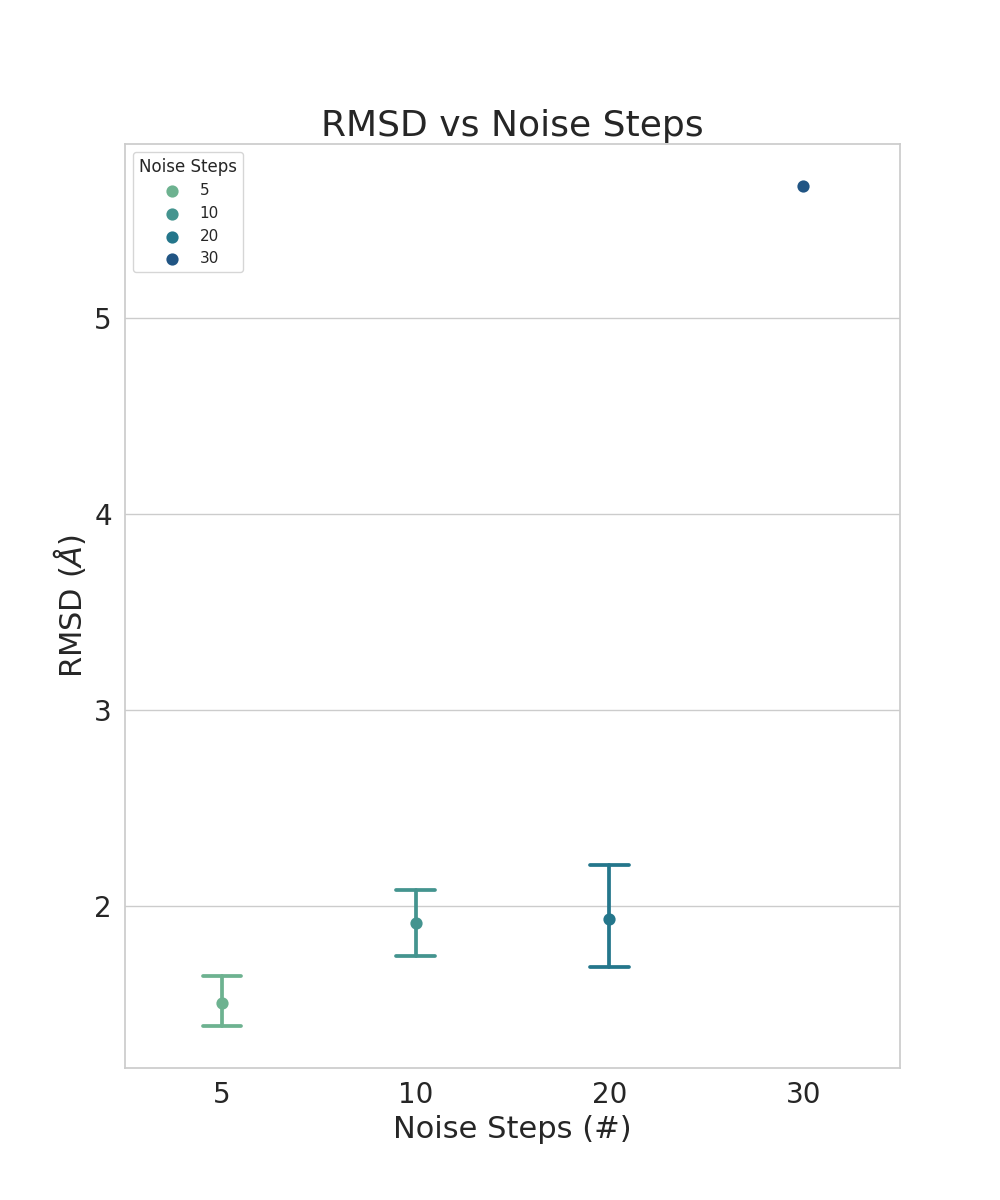
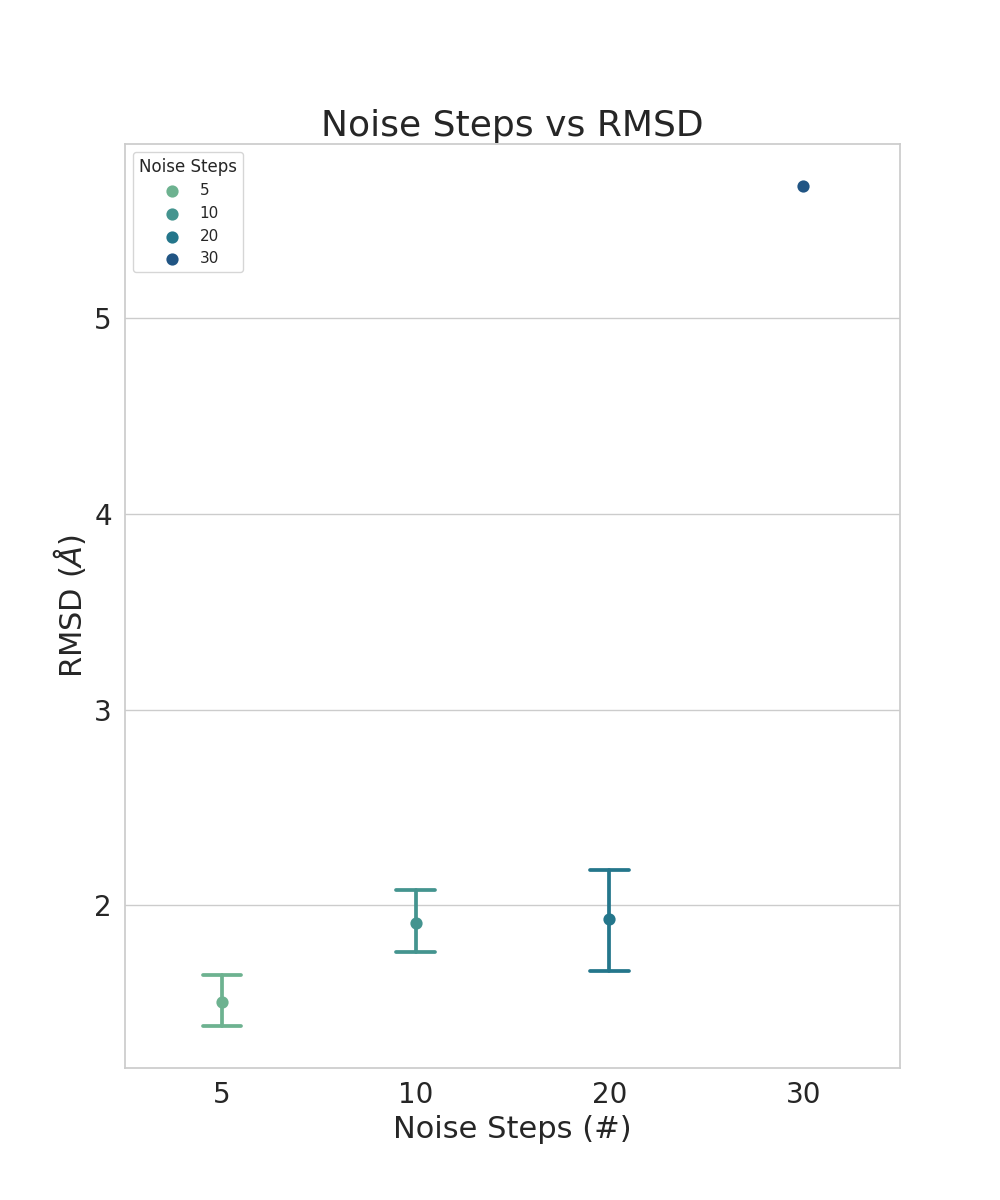
Figures_RMSD

diff --git a/FIGURES/Noise_Scale_figures.py b/FIGURES/Noise_Scale_figures.py
@@ -69,8 +69,8 @@ df_filtered_112.loc[df_filtered_112['Noise'] == '1', 'Noise'] = 1.0
 plt.figure(figsize=(10,12))
 sns.set_theme(style='whitegrid')
 sns.pointplot(data=df_filtered_112, x='Noise', y='RMSD', hue= 'Noise', palette='crest', s=100,capsize=0.2, ci=95 )
-plt.title('RMSD vs Noise Scale', fontsize=26)
-plt.xlabel('Noise Scale (Arb.U)', fontsize=22)
+plt.title('Noise Scale vs RMSD', fontsize=26)
+plt.xlabel('Noise Scale (Arb.Units)', fontsize=22)
 plt.ylabel(f'RMSD ($\AA$)', fontsize=22)
 plt.legend(title='Noise Scale')
 plt.tick_params(axis='y', labelsize=20)

diff --git a/FIGURES/Figure_noise_steps.py b/FIGURES/Figure_noise_steps.py
@@ -75,7 +75,7 @@ sns.pointplot(data=df_filtered, x='Noise', y='RMSD', hue= 'Noise', palette='cres
 
 # Plot the regression line
 # sns.lineplot(x=X, y=y_pred, label=f'$r$={r_value:.2f}', color='red', ax=ax) ##Doesn't work##
-plt.title('RMSD vs Noise Steps', fontsize=26)
+plt.title('Noise Steps vs RMSD', fontsize=26)
 plt.xlabel('Noise Steps (#)', fontsize=22)
 plt.ylabel(f'RMSD ($\AA$)', fontsize=22)
 plt.tick_params(axis='y', labelsize=20)
